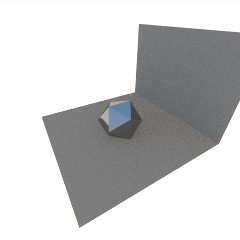
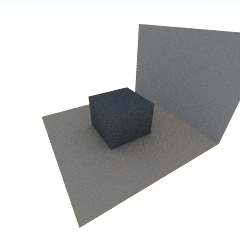
cubes

Changed region(s): [[0.35, 0.35, 0.6417, 0.6417]]

diff --git a/Main.java b/Main.java
@@ -11,7 +11,8 @@ public class Main {
         Mat dif = new Diffuse("dif", new Vec3(1, 1, 1));
         Mat glos = new Glossy("glos", new Vec3(1, 1, 1), 0.1, 0.65);
 
-        //scene.add(Primitives.Cube("cube", dif));
+        scene.add(Primitives.Cube("cube", dif));
+        scene.get("cube").InvertNormal();
         scene.add(Primitives.IcoSphere("ico", glos));
 
         scene.add(new Mesh("ground", 
